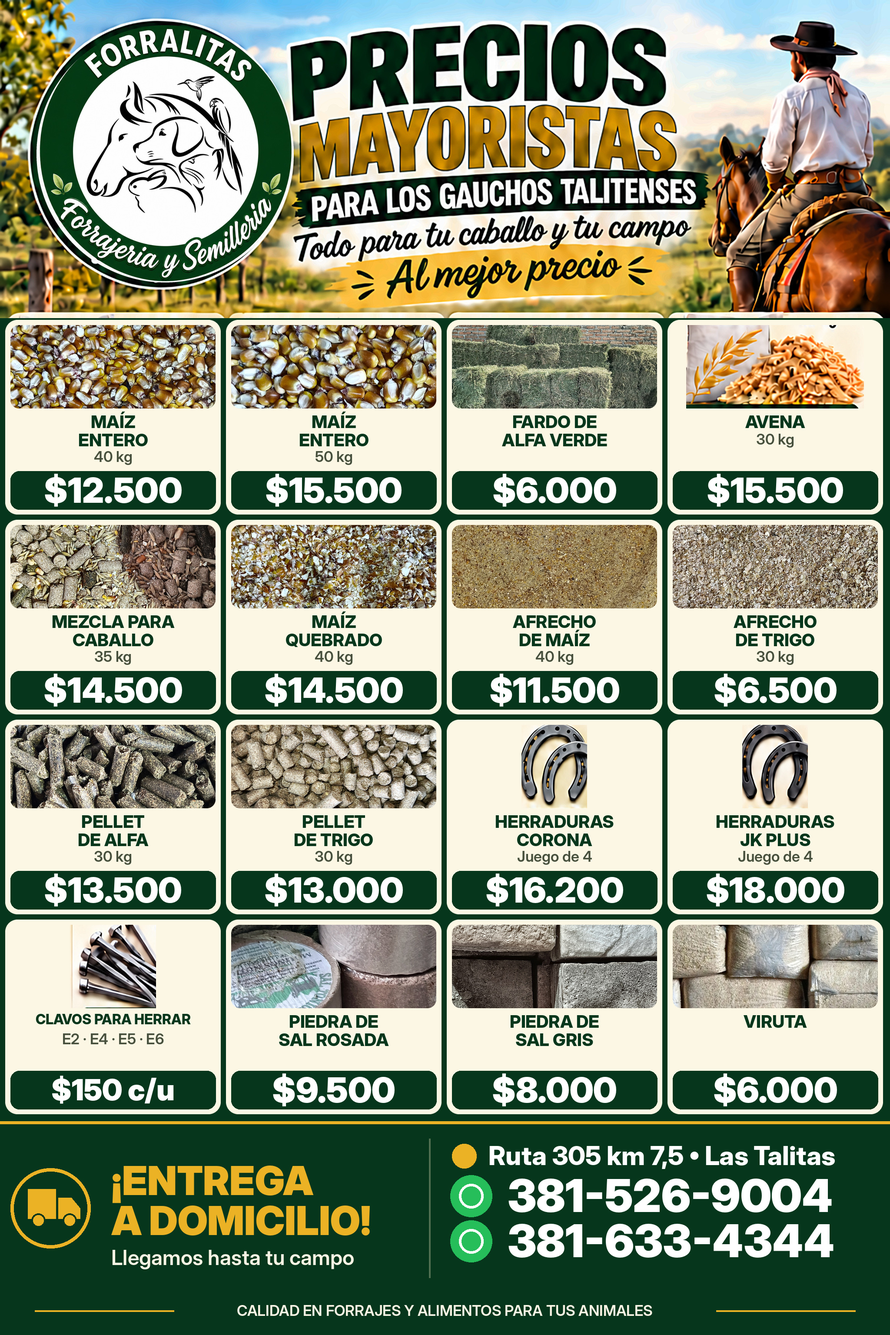
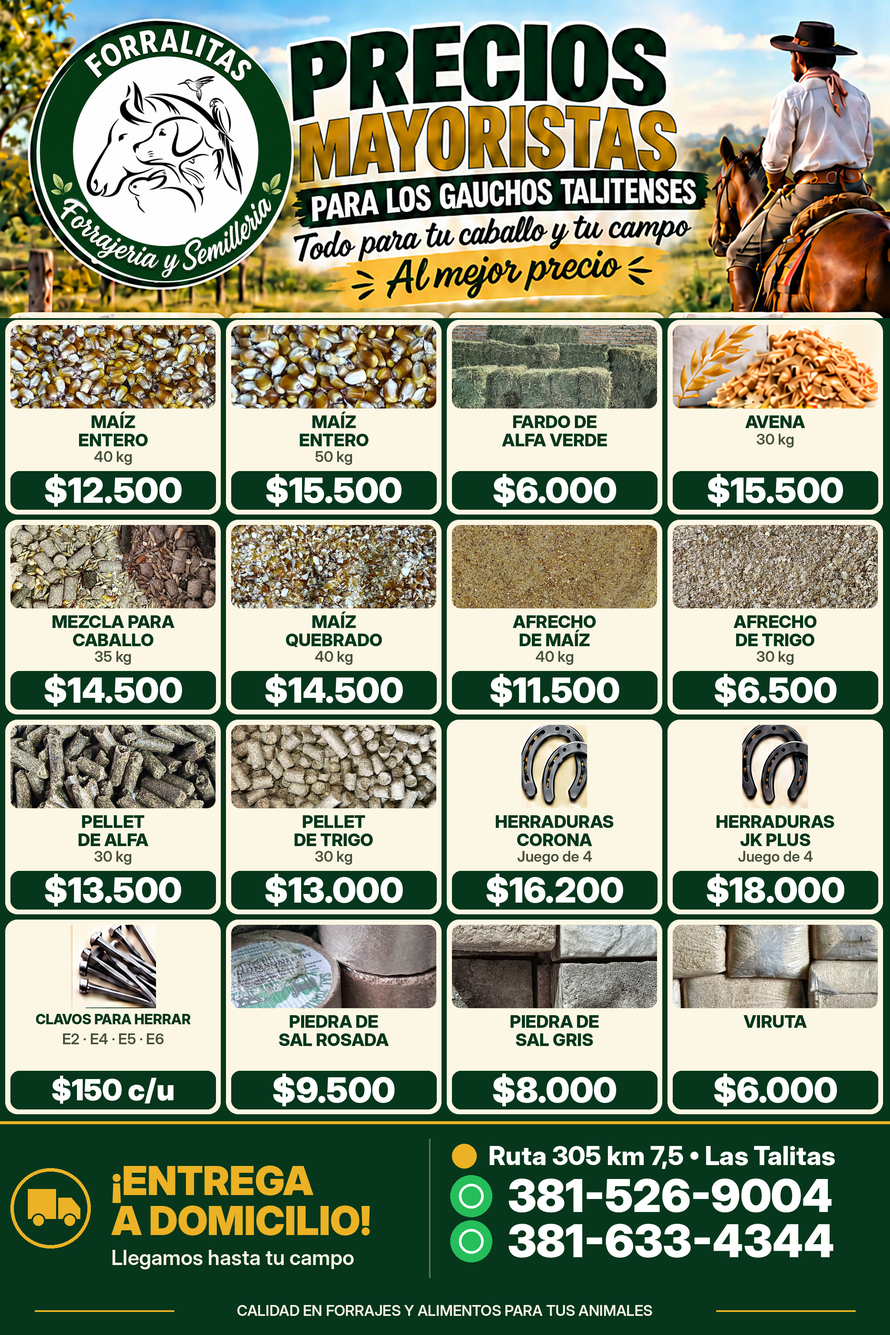
Flyer: corrige el recuadro de la avena
Claude-Session: https://claude.ai/code/session_01Cy11akA1UAkFtHjYFXUnkM

Changed region(s): [[0.75, 0.2188, 1.0, 0.3125]]

diff --git a/FORRALITAS/codigo/flyer_precios.py b/FORRALITAS/codigo/flyer_precios.py
@@ -60,7 +60,7 @@ ITEMS = [
     ("MAÍZ", "ENTERO", "40 kg", "$12.500", "maiz_entero", (0.5, 0.5), 1.5),
     ("MAÍZ", "ENTERO", "50 kg", "$15.500", "maiz_entero", (0.35, 0.3), 1.9),
     ("FARDO DE", "ALFA VERDE", "", "$6.000", "alfalfa_pila", (0.5, 0.45), 1.15),
-    ("AVENA", "", "30 kg", "$15.500", ("flyer", (790, 430, 1012, 534)), None, 1),
+    ("AVENA", "", "30 kg", "$15.500", ("flyer", (792, 436, 1012, 530)), None, 1),
     ("MEZCLA PARA", "CABALLO", "35 kg", "$14.500", "mezcla_caballo", (0.5, 0.5), 1.4),
     ("MAÍZ", "QUEBRADO", "40 kg", "$14.500", "maiz_quebrado", (0.5, 0.45), 1.5),
     ("AFRECHO", "DE MAÍZ", "40 kg", "$11.500", "afrecho_maiz", (0.5, 0.5), 1.3),
@@ -80,7 +80,7 @@ def foto_item(clave, foco, zoom, w, h, flyer):
     if isinstance(clave, tuple):
         x0, y0, x1, y1 = clave[1]
         arr = cv2.cvtColor(np.asarray(flyer.crop((x0, y0, x1, y1)).convert("RGB")), cv2.COLOR_RGB2BGR)
-        esc = min(px(w) / arr.shape[1], px(h) / arr.shape[0])
+        esc = (max if clave[1][0] == 792 else min)(px(w) / arr.shape[1], px(h) / arr.shape[0])
         arr = cv2.resize(arr, (int(arr.shape[1] * esc), int(arr.shape[0] * esc)), interpolation=cv2.INTER_CUBIC)
         blur = cv2.GaussianBlur(arr, (0, 0), 2.0)
         arr = cv2.addWeighted(arr, 1.6, blur, -0.6, 0)
